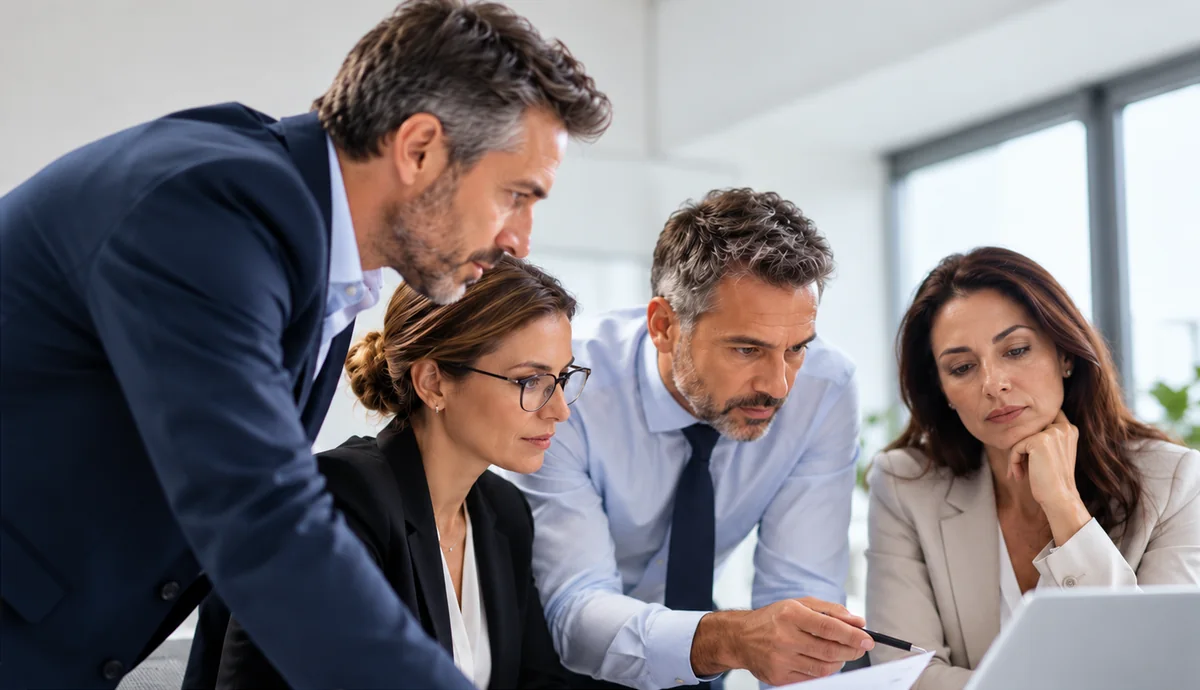
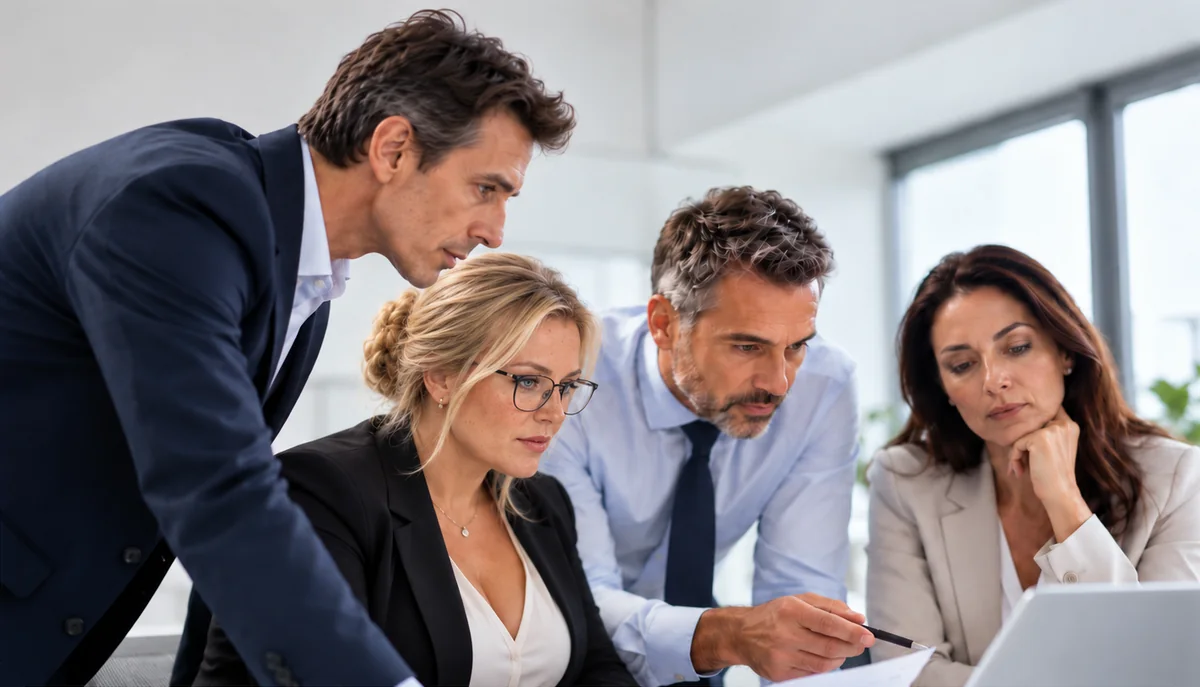
Preview: the owner's second team photo replaces the first
"Business meeting 2" shows the same four colleagues with a different man on the left and a
fair-haired woman at the laptop. It is cut out of the card frame at its exact edges (1425 x 817),
its rounded corners filled from the picture around them, and saved over the team-meeting
files in 600, 800 and 1200 px; the frame's proportions follow the new size (1200 / 687).

Claude-Session: https://claude.ai/code/session_016hDLQ16FZRXrd9vw5hmHyX

diff --git a/site/preview/index.html b/site/preview/index.html
@@ -23,7 +23,7 @@
 <link rel="icon" href="../favicon.svg" type="image/svg+xml">
 <link rel="icon" href="../favicon.ico" sizes="32x32">
 <link rel="apple-touch-icon" href="../img/apple-touch-icon.png">
-<link rel="stylesheet" href="app.css?v=977281b8">
+<link rel="stylesheet" href="app.css?v=0f5fc3cd">
 <script src="script.js?v=51563463"></script>
 <script src="fx.js?v=7651b942"></script>
 <script type="application/ld+json">
@@ -261,8 +261,8 @@
     </div>
     <div class="collaboration glass reveal">
       <picture>
-        <source type="image/webp" srcset="../img/team-meeting-600.webp?v=7487646f 600w, ../img/team-meeting-800.webp?v=de8f16f6 800w, ../img/team-meeting-1200.webp?v=32330141 1200w" sizes="(min-width: 1081px) 560px, calc(100vw - 84px)">
-        <img src="../img/team-meeting-1200.jpg?v=49cc1ba9" width="1200" height="690" loading="lazy" decoding="async" alt="Four colleagues from sales and engineering, two women and two men, review a quote together at a laptop.">
+        <source type="image/webp" srcset="../img/team-meeting-600.webp?v=4925f9f3 600w, ../img/team-meeting-800.webp?v=7ea18358 800w, ../img/team-meeting-1200.webp?v=61254d4f 1200w" sizes="(min-width: 1081px) 560px, calc(100vw - 84px)">
+        <img src="../img/team-meeting-1200.jpg?v=4c3c1322" width="1200" height="687" loading="lazy" decoding="async" alt="Four colleagues from sales and engineering, two women and two men, review a quote together at a laptop.">
       </picture>
       <div class="team-caption">
         <span class="icon" aria-hidden="true"><svg class="ico"><use href="#i-users"/></svg></span>

diff --git a/site/preview/app.css b/site/preview/app.css
@@ -301,7 +301,7 @@ picture { display: contents; }
 .split .kicker { margin-bottom: 16px; }
 .split .lead { margin-top: 20px; }
 .collaboration { padding: 10px; border-radius: var(--r-xl); }
-.collaboration img { width: 100%; height: auto; aspect-ratio: 1200 / 690; object-fit: cover; border-radius: 16px; }
+.collaboration img { width: 100%; height: auto; aspect-ratio: 1200 / 687; object-fit: cover; border-radius: 16px; }
 .team-caption { display: flex; align-items: center; gap: 14px; padding: 16px 12px 8px; }
 .team-caption .icon { display: grid; place-items: center; width: 34px; height: 34px; flex: none; border-radius: 10px; font-size: 18px; color: rgb(var(--blue-deep)); background: rgb(var(--blue) / .12); }
 .team-caption strong { display: block; font-size: 15px; font-weight: 650; }
